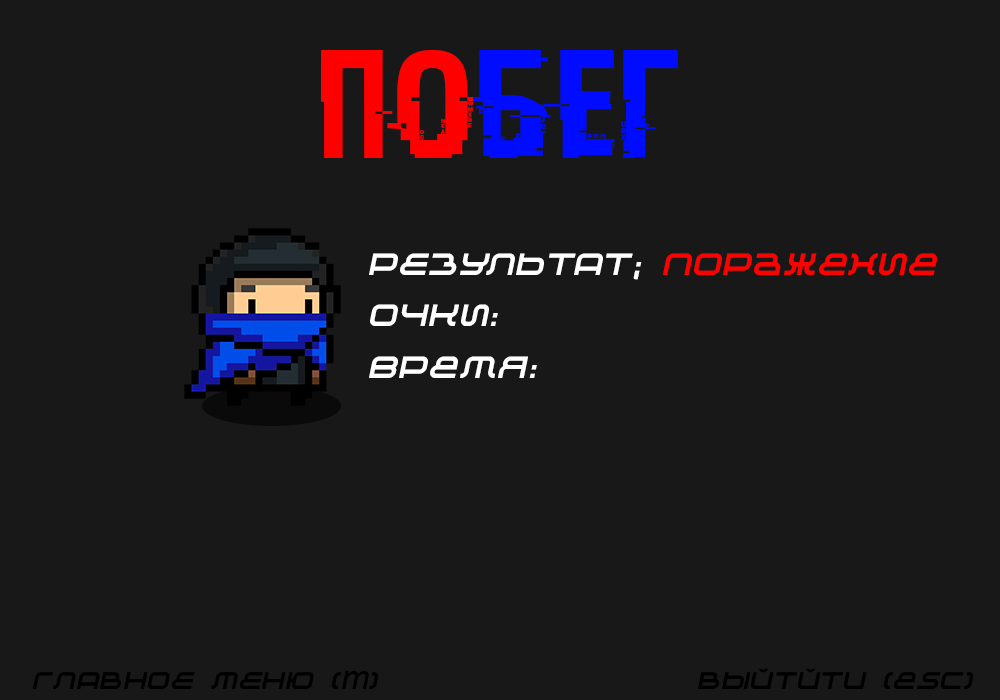
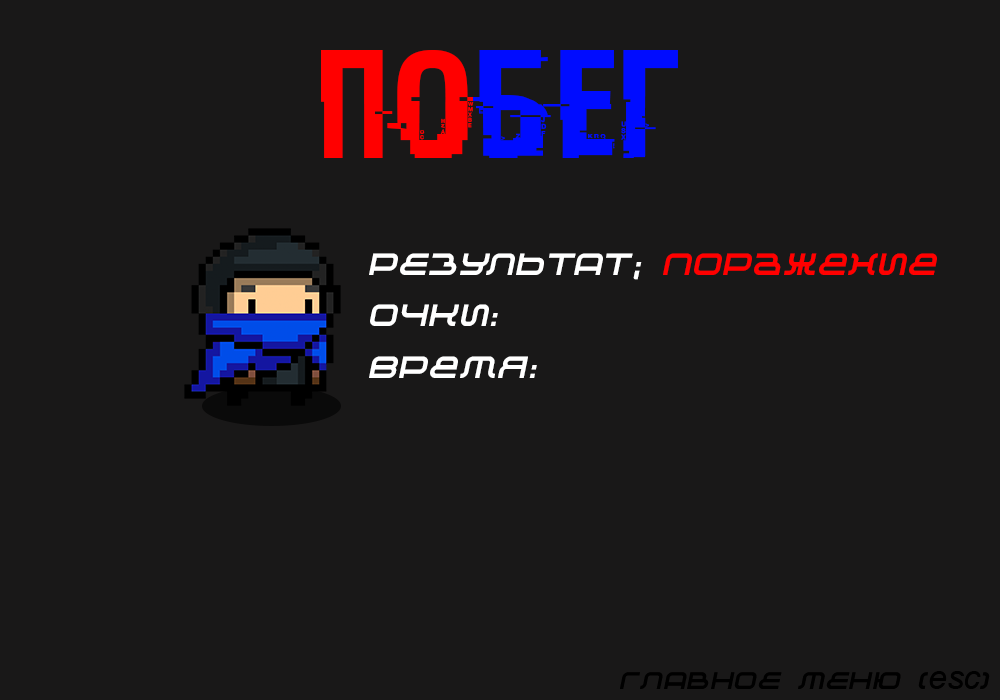
v1.0.1

Changed region(s): [[0.62, 0.96, 0.992, 0.99], [0.031, 0.96, 0.372, 0.99]]

diff --git a/main_game2.py b/main_game2.py
@@ -6,7 +6,6 @@ import time
 import datetime
 
 while True:
-    print(2)
     # КОНСТАНТЫ
     FPS = 60  # fps
     W = 1000  # ширина экрана
@@ -30,9 +29,9 @@ while True:
     initial_time = datetime.datetime.now()  # время начала игры
 
     # ВЕРСИЯ ПРОГРАММЫ
-    version = '1.0.0 '  # версия
+    version = '1.0.1 '  # версия
 
-    # 1. Добалено бесконечное перемещение по интерфейсу игры
+    # 1. Добавлено отображение управления
     # 2. Незначительная оптимизация кода
     # 3. Не доделал доделал таймер(
 
@@ -96,7 +95,7 @@ while True:
         if k % 3 == 2:
             pass
 
-
+    # ОТРИСОВКА СПРАЙТОВ НА ЭКРАНЕ
     def draw_sprite_group():
         tiles_group.draw(sc)  # карта
         wall_border_group.draw(sc)  # граници стен
@@ -142,15 +141,16 @@ while True:
 
     # ГЛАВНОЕ МЕНЮ
     def show_menu():
+        # ПАРАМЕТРЫ
         show = True
         image = pygame.image.load('data/start_menu/main_menu_test.png')
         rect = image.get_rect(bottomright=(W, H))
         sc.blit(image, rect)
+        global tile_images
 
         pygame.display.update()
 
-        global tile_images
-
+        # ЗАПУСТИЛ ГЛАВНОЕ МЕНЮ
         while show:
             for event_1 in pygame.event.get():
                 # ОБНАРУЖЕНИЕ ИВЕНТОВ PYGAME
@@ -166,6 +166,7 @@ while True:
 
                         show_1 = True
 
+                        # ЗАПУСК МЕНЮ ВЫБОРА УРОВНЯ
                         while show_1:
                             for event_2 in pygame.event.get():
                                 # ОБНАРУЖЕНИЕ ИВЕНТОВ PYGAME
@@ -205,6 +206,7 @@ while True:
 
                         show_1 = True
 
+                        # ЗАПУСК ГЛАВНОГО МЕНЮ
                         while show_1:
                             for event_2 in pygame.event.get():
                                 # ОБНАРУЖЕНИЕ ИВЕНТОВ PYGAME
@@ -223,47 +225,42 @@ while True:
                     elif event_1.key == pygame.K_ESCAPE:
                         exit(0)
 
-
-    show_menu()
-
-    # КОНЕЦ ИГРЫ
+    # ФИНАЛЬНОЕ МЕНЮ
     def show_end_menu(result):
-        show = True
-        image = None
+        show = True  # показ меню
+        image = None  # наличие картинки
 
-        if result == 1:
+        if result == 1:  # выиигрышь или поражение
             image = pygame.image.load('data/end_menu/end_menu_win.png')
         elif result == 0:
             image = pygame.image.load('data/end_menu/end_menu_fail.png')
 
         rect = image.get_rect(bottomright=(W, H))
-        sc.blit(image, rect)
+        sc.blit(image, rect)  # нарисовал финальный мнтерфейс
 
-        font = pygame.font.Font(font_name, 40)
+        # ОТРИСОВКА РЕЗУЛЬТАТОВ
+        font = pygame.font.Font(font_name, 40)  # счёт
         text_surface = font.render(str(score), True, WHITE)
         text_rect = text_surface.get_rect()
         text_rect.midtop = (518, 290)
         sc.blit(text_surface, text_rect)
 
-        font = pygame.font.Font(font_name, 40)
+        font = pygame.font.Font(font_name, 40)  # время
         text_surface = font.render((str(datetime.datetime.now() - initial_time))[2:7], True, WHITE)
         text_rect = text_surface.get_rect()
         text_rect.midtop = (588, 340)
         sc.blit(text_surface, text_rect)
 
-        pygame.display.update()
+        pygame.display.update()  # обновил дисплей
 
+        # ЗАПУСТИЛ ФИНАЛЬНОЕ МЕНЮ
         while show:
             for event_1 in pygame.event.get():
-                # ОБНАРУЖЕНИЕ ИВЕНТОВ PYGAME
                 if event_1.type == pygame.QUIT:
                     sys.exit()
                 if event_1.type == pygame.KEYDOWN:
                     if event_1.key == pygame.K_ESCAPE:
-                        exit(0)
-                    elif event_1.key == pygame.K_m:
                         show = False
-                        print(1)
 
     # ОБЪЕКТ ГРАНИЦА СТНЕЫ
     class Wall_border(pygame.sprite.Sprite):
@@ -449,6 +446,7 @@ while True:
                     Tile('border', x, y)
         return x, y
 
+    show_menu()
 
     # СОЗДАНИЕ СПРАЙТОВ
     wall_top = Wall(12.7, 0.9, 'wall_top_2.png')  # верхняя стена
